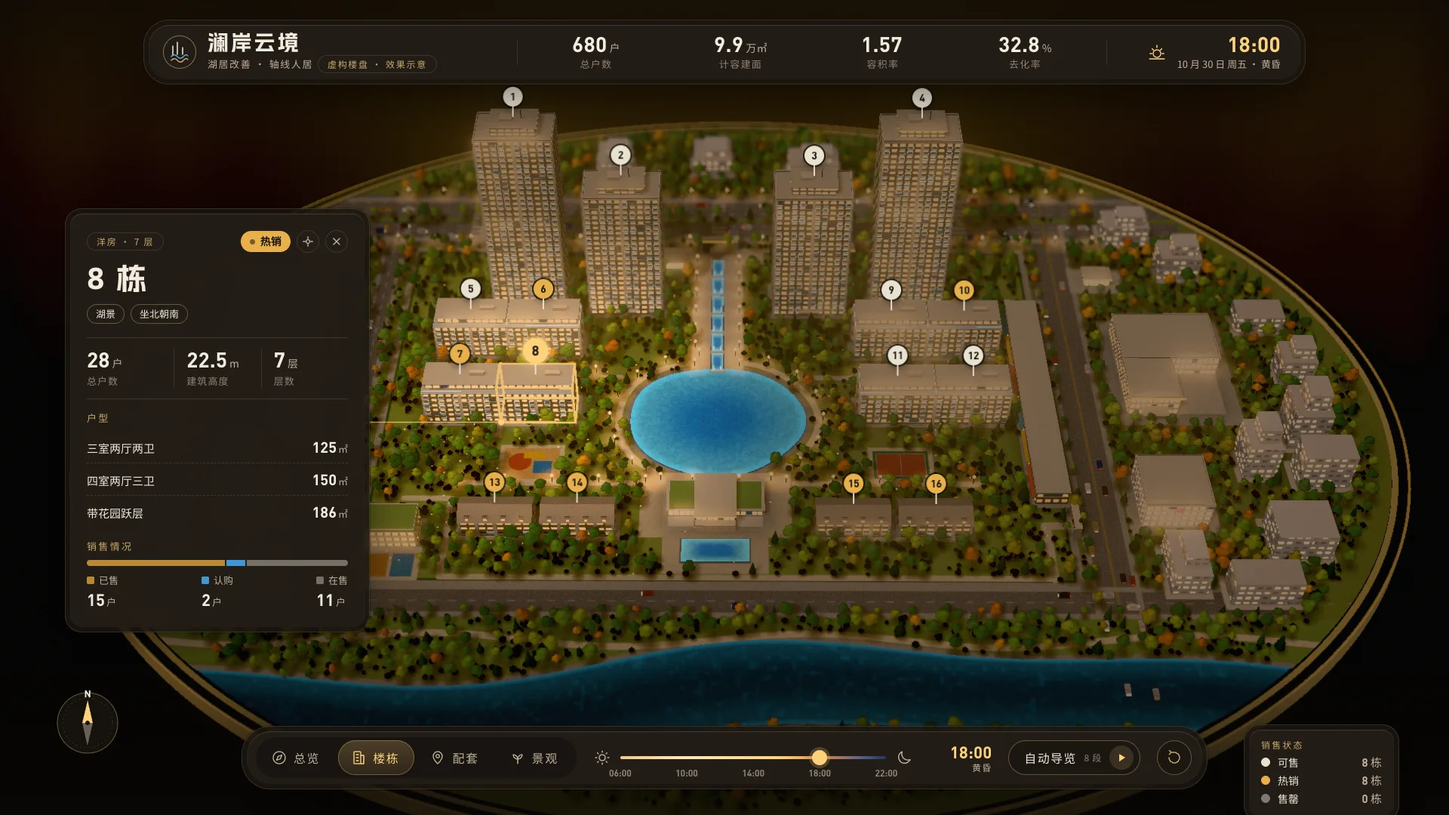
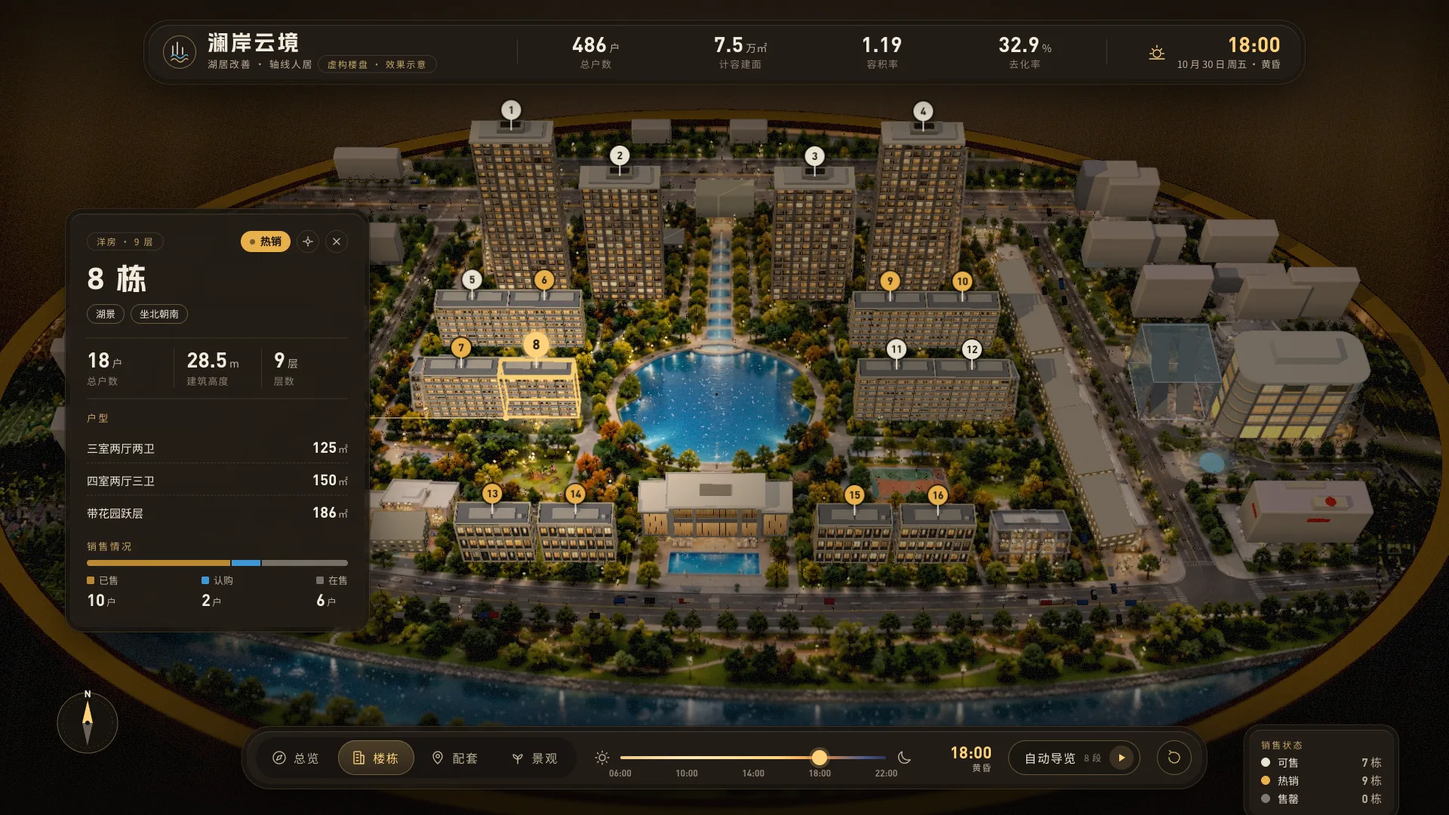
docs(estate): CLAUDE.md 和工作流状态更新，首页预览图重新生成
CLAUDE.md 补 /estate 的还原页、Blender 楼栋、样板间 VR、抖音视频与输入桥的说明；state.json 记录这几轮的取舍；.gitignore 忽略 .img2threejs/；首页的楼盘沙盘预览图按新画面重新生成。

diff --git a/CLAUDE.md b/CLAUDE.md
@@ -55,10 +55,14 @@ This project uses **yarn** (see `yarn.lock`).
   `python3 scripts/coal-prep/compose_camera.py` writes the main camera `src/views/coal-prep/data/camera.json` (generated; the Blender preview reads it too). It is composed after the approved image rather than taken from the raw calibration fit, because the AI concept image's perspective is inconsistent (user's decision 2026-10-28): azimuth from the calibration, 14° pitch, 8.5 m from drum 1, aim and FOV fitted to three composition points
 - `/mine-fire` data (fictional 青崖煤矿 2# 煤层, laid out from a real mine's CAD; design stage docs in git-ignored `docs/design/mine-fire/`): `python3 scripts/mine-fire/plan.py [CAD screenshot]` turns the roadway network hand-traced from the user's CAD 《2#煤层避灾路线图》 (1:5000, 5 m per CAD px assumed) into `src/views/mine-fire/data/plan.json` (generated, do not edit; with the screenshot path it also draws the tracing check `docs/design/mine-fire/plan-v1.png`, `MINE_FIRE_DOCS` overrides that directory). The four monitored chambers, the shafts and the airflow direction are not on the CAD and are assumptions placed after the approved concept. `data/camera.json` was fitted to the concept image (fixed south-looking camera, RMS 45.9 px, see `docs/design/mine-fire/07-camera.json`).
   Screenshots: `node scripts/mine-fire/capture.mjs "<dev>/#/mine-fire?at=14:06:18&tour=0" <png> --page --settle 3` (outside the sandbox; `--css` injects styles, e.g. `.mine-fire-page > .scene{visibility:hidden}` for the panel comparison)
-- `/estate` data and design (fictional 澜岸云境 residential estate shown as a sales-centre sand table; built with the `build-3d-visual-dashboard` skill, state in `.dashboard-workflow/state.json`, stage docs in `docs/design/estate/`, which is git-ignored on this base and exists only locally): `node scripts/estate/layout.mjs` is the only source of ids and layout (16 buildings B01–B16 = 4 towers + 8 terraces + 4 villas, 20 amenity / landscape / gate / surrounding objects, 680 units, the oval table base `base: {cx, cy, rx, ry}`) and writes `src/views/estate/data/layout.json` + `docs/design/estate/devices.json` (generated, do not edit); `node scripts/estate/mock.mjs` writes the sales mock `docs/design/estate/mock/` (check it with the skill's `data-check.mjs`, run from its real path `~/src/build-3d-visual-dashboard/scripts/`) and the page's `data/sales.json`; `node scripts/estate/scope_doc.mjs` regenerates `03-scope.md` from the layout.
-  The approved design `docs/design/estate/design/final.png` = an AI scene image (`design/src/scene-a1.png`, one Figma `generate_image` call) + HTML panels (`design/src/drafts.html`, tokens `tokens.css`); `node scripts/estate/design_moment.mjs && node scripts/estate/capture_drafts.mjs v1` re-render it (outside the sandbox). `python3 scripts/estate/fit_camera.py` fits the page camera to it (fixed 28° vertical FOV and a fixed 46° pitch — the free fit gives 53° from the building positions but the concept's base and perspective look nearer 35–40°; `calibrate.py`'s perspective model collapses to a near-orthographic 2° on this AI image) and writes `data/camera.json` (generated). The building positions in `layout.mjs` were back-projected from the design's roof anchors, so layout follows the design, not the first plan.
+- `/estate` data and design (fictional 澜岸云境 residential estate shown as a sales-centre sand table; built with the `build-3d-visual-dashboard` skill, state in `.dashboard-workflow/state.json`, stage docs in `docs/design/estate/`, which is git-ignored on this base and exists only locally): `node scripts/estate/layout.mjs` is the only source of ids and layout (16 buildings B01–B16 = 4 towers + 8 terraces + 4 villas, 20 amenity / landscape / gate / surrounding objects, 486 units, the oval table base `base: {cx, cy, rx, ry}`) and writes `src/views/estate/data/layout.json` + `docs/design/estate/devices.json` (generated, do not edit); `node scripts/estate/mock.mjs` writes the sales mock `docs/design/estate/mock/` (check it with the skill's `data-check.mjs`, run from its real path `~/src/build-3d-visual-dashboard/scripts/`) and the page's `data/sales.json`; `node scripts/estate/scope_doc.mjs` regenerates `03-scope.md` from the layout.
+  The approved design `docs/design/estate/design/final.png` = an AI scene image (`design/src/scene-a1.png`, one Figma `generate_image` call) + HTML panels (`design/src/drafts.html`, tokens `tokens.css`); `node scripts/estate/design_moment.mjs && node scripts/estate/capture_drafts.mjs v1` re-render it (outside the sandbox). `python3 scripts/estate/fit_camera.py` fits the page camera to it (fixed 28° vertical FOV; the roof-anchor fit gives 46° / 53° but the page camera is then re-solved by `COMPOSE` — due-north azimuth, 40° pitch, building 1's roof at screen y 192 and B14's south edge at y 765 — for a lower, closer frame whose base is cropped at the sides and the south edge; `calibrate.py`'s perspective model collapses to a near-orthographic 2° on this AI image) and writes `data/camera.json` (generated). The building positions in `layout.mjs` were back-projected from the design's roof anchors, so layout follows the design, not the first plan.
   Screenshots: `node ~/src/build-3d-visual-dashboard/scripts/capture.mjs "<dev>/#/estate?skip=1&tour=0" <png> --view home --state design --settle 4 [--clean] [--id-mask <png>]` (real path, not the `~/.claude/skills` symlink; outside the sandbox). The Browser pane throttles the page to ~1 fps while it is hidden, so use headless captures for anything frame-rate related
 - `/estate` 3D models (Blender from the command line, no MCP needed; `models/estate/` is git-ignored like the other models): `"/Applications/Blender.app/Contents/MacOS/Blender" --background --factory-startup --python scripts/blender/estate/run_cli.py -- build [--render <png>]` rebuilds `models/estate/estate.blend` from `layout.json` (28 buildings, each an empty named by its id with `<id>_body` + an invisible `<id>_hull` box the page uses for picking / outlines; plus the TREES collection with 4 crown meshes; `--render` is a Workbench preview from the page camera), `... -- bake [--samples 48] [--size 4096]` bakes vertex AO into the buildings (Cycles, upward faces forced to 1) and a top-down ground AO to `models/estate/ground_ao_raw.png` (≈4 min on the M2 GPU), `python3 scripts/estate/ground_ao_post.py [0.8]` turns that into `public/estate/ground_ao.webp` (the page multiplies it onto the ground canvas), and `... -- export` writes `public/estate/buildings.glb` + `trees.glb` (meshopt). Rebuild + bake + export + post after any change to `layout.json`, the facade code in `buildings.py` or the materials in `lib.py`. The Blender window you may have open does not show this: it is a separate headless process, open `estate.blend` to look at it.
+- `/estate` Cycles offline render (the "looks like a photographed physical sand table" route; the realtime page tops out near 5/10 on the review rubric): `node scripts/estate/export_for_blender.mjs [devUrl]` dumps the ground albedo (without baked shadows) and every named instanced mesh (trees, lamps, cars, context blocks) from the running page into `models/estate/render/` so Blender places things where the page does; `node scripts/estate/export_trees.mjs [devUrl]` builds 12 trees (oak / ash / aspen / pine / 3 bushes) with the `@dgreenheck/ez-tree` dev dependency (MIT; its package carries 15 MB of inlined textures so it is only used offline through `scripts/estate/tree_lab/index.html`, never in the page bundle) and writes `models/estate/render/trees_ez/*.glb` + `manifest.json`; `python3 scripts/estate/make_grass.py` scatters 120 k grass tufts and ~6 k flowers on the lawn pixels of the ground albedo (`grass_points.json`); then `"/Applications/Blender.app/Contents/MacOS/Blender" --background --factory-startup --python scripts/blender/estate/run_cli.py -- cycles <png> [--lit 0.85] [--samples 192] [--w 1920] [--h 1080] [--fstop 0.012] [--exp -0.4]` (`lib` + `buildings.py` models, `render.py` render materials / table / water / showroom / camera from `data/camera.json`, `ez_trees.py` tree placement; `--lit` 0 = day … 1 = night; 1080p at 64 samples ≈ 2 min on the M2) also saves `models/estate/render/estate_render.blend`. The camera is a 1:250 miniature's: the f-stop is tiny (0.012) because real-scale distances give no depth of field. Run the three export scripts outside the sandbox with the dev server up (`preview_start` name `bi-demo`). Blender 5's Glare node is configured through input sockets (`Type` defaults to Streaks, which draws crosses; set `Bloom`), and a mesh template without a `Col` attribute makes a Vertex Color node read black.
+- `/estate` residential buildings of the restoration page (B01–B16, Blender from the command line, since 2026-10-31): `python3 scripts/estate/img2/make_window_atlas.py` writes four window-pane atlases in `models/estate/` (git-ignored; 8 × 8 tiles each, the whole tile is emissive × `BL_WINDOW_EMIS`, so frame values are target brightness / 1.8): `window_atlas.png` for towers (dark frame + orange core with curtain folds, furniture blocks, optional mullion), `window_atlas_terrace.png` (warm-brown recess + pale balustrade band under the panes) and `window_atlas_dark.png` for villas (charcoal recess with two small panes / one wide lit pane / one pane / dark) and `window_atlas_club.png` for the clubhouse (tiles 0–31 golden full-height glass with fine curtain stripes, 32–63 the upper low band: three small lit panes over a brown base), then `"/Applications/Blender.app/Contents/MacOS/Blender" --background --factory-startup --python scripts/blender/estate/run_cli.py -- restored [--samples 32] [--render <png>]` builds the 16 residential buildings and the clubhouse CL01 from `scene/img2/footprints.json` (position / size / floors come only from there) with `scripts/blender/estate/restored.py` — real floor beams, piers, group-boundary pilaster + groove + pilaster, corner posts, one glass quad per window UV-mapped to an atlas tile (emission), one small balcony per unit on the terraces' south face, roofs (white overhanging cornice + crown + dark-notched core on towers; slate roof + white rim + pale PV platforms + equipment boxes on terraces / villas), vertex AO — and writes `public/estate/img2/buildings_bl.glb` (one empty per building id with a `<id>_body` mesh; the window material is `bl_window*` and the page drives its `emissiveIntensity` by time of day, `BL_WINDOW_EMIS` in `extras.js`; wall / roof materials get an albedo-coloured emissive of `BL_SURFACE_EMIS` that follows the sky light). the clubhouse (`club()` in `restored.py`: centre block with a lower tall glass storey, a thick beam, an upper low glass band and four thin grey columns, two one-storey wings, white overhanging roof slabs with a skylight; bay / column positions in metres were read off the design at 10× zoom) lives in the same GLB as `CL01`, and its roof material is named `bl_wall_clubroof` so it gets the full wall emissive (the design's clubhouse roof is the brightest white in the picture). `extras.js` loads it (`loadBlenderBuildings`), turns the generator's boxes of those buildings into invisible proxies (they still serve picking and the selection outline) and skips the shader facade / lattice / balcony / roof-unit / cornice code for them; when the GLB is missing the page falls back to that shader path. Per-kind parameters live in `KINDS` of `restored.py` (close to `FACADE` in `extras.js`, measured on the design at 9–16× zoom: villa bays are dark charcoal recesses with two small lit panes between light pilasters and beams, terrace bays are warm tan with orange panes over a pale balustrade band, tower walls are mid warm brown with thin pale pilasters and a wide dark groove; roofs get only a quarter of the wall emissive, the design's roofs are much darker than its walls). The GLB costs ≈ 156 draw calls (one per material primitive; the whole page is ≈ 290 calls, ≈ 2.98 M triangles, 60 fps steady after a ~2 s warm-up at 47). Compare at whole-page scale with `python3 scripts/estate/img2/bl_stats.py <render.png>` (per-building luminance percentiles 5 / 25 / 50 / 75 / 95 of design vs render — block means were fooled by dark-wall-bright-window vs light-wall-dark-frame, percentiles are not).
+- `/estate` photo mode (`?mode=photo`; it was the default look for a few hours on 2026-10-31 until the img2threejs restoration above replaced it): `"/Applications/Blender.app/Contents/MacOS/Blender" --background --factory-startup --python scripts/blender/estate/run_cli.py -- photo [--only a,b] [--samples 128] [--orbit-samples 96] [--force]` renders the whole set with the Cycles scene above (scene built once; existing PNGs are skipped so it can be interrupted and rerun): `home_<day|golden|dusk|night>` (main view × 4 lightings), 8 close-up views × 2 lightings (`towers` `terrace` `villas` from `tour.js`, `traffic` `scenic` `club` `shop` `edu` framed like `EstateScene.setLayer`) and `orbit_1…11` (every 30° around the main view's target, dusk; `orbit_0` is `home_dusk`) into `models/estate/render/photo/`, a building ID mask `mask_home.png` (flat colours, R = (index + 1) × 8, no antialiasing, compositor off) and `public/estate/photo/manifest.json` (cameras in three.js coordinates, lighting keyframe hours, view table, mask colour table); ≈3–4 min per 1080p frame on the M2, ~30 frames. Then `python3 scripts/estate/photo_post.py [86]` converts PNG → WebP into `public/estate/photo/` (about 15 MB in all). `scene/PhotoScene.js` has the same public interface as `EstateScene` (so `index.vue`, `tour.js`, `PinLayer` are unchanged): it draws the images on a 2D canvas, cross-fades lightings by hour, projects pins with each view's own camera, picks buildings from the mask in the main view (projected box hulls elsewhere), outlines the selection with a glow cut from the mask, flies between views with a cross-fade and a camera lerp, and rotates by dragging horizontally through the 12 orbit frames. `index.vue` falls back to the restored scene when `manifest.json` is missing; `?mode=live` gives the first procedural `EstateScene`. Changing the layout, camera, trees or lighting means re-rendering the affected frames.
+- `/estate` img2threejs restoration (the **default** page look since 2026-10-31; skill `~/.claude/skills/img2threejs`, working state in the git-ignored `.img2threejs/`): the user asked to restore the approved design `docs/design/estate/design/v1.png` (identical to `final.png`; its scene without panels is `design/src/scene-a1.png`, 1536 × 864). Pipeline in `scripts/estate/img2/`: `fit_ref_camera.py` fits a camera in `scene-a1.png` coordinates (free pitch, RMS 9.8 px → `.img2threejs/camera-ref.json` + `scene/img2/camera-ref.json`; it is NOT the page's `camera.json`, which is re-composed lower and closer); `refcam.py` converts review-image pixels ↔ world; `overlay_boxes.py <out.png> [prefixes] [x0 y0 x1 y1] [--image <base>]` draws every footprint volume as a wireframe through the review camera on the design (or on a render) to check position / size / height by eye, `grid_compare.py` / `grid_crop.py` put design | render (or the design alone) side by side with a labelled 10 px grid so edges can be read off in `scene-a1.png` coordinates, `ctx_stats.py <render.png>` compares median top / front colours of the surrounding white blocks and the hospital with the design; `measure_river.py` measures the river's two banks from the image's blue water (→ `scene/img2/river.json`); `build_spec.py` is the only source of the ObjectSculptSpec (102 components named by building id, 16 materials with reference PBR, 68 local features, 7 repetition systems; run `python3 .../new_sculpt_spec.py` first for the skeleton it starts from) and also writes `scene/img2/{spec-lite,footprints}.json`; `extract_materials.py` extracts each material's reference PBR from image crops (needs the skill copy outside the sandbox: its spec-search cache writes under the skill dir); `make_ground.py` back-projects the image onto the ground plane (building volumes masked and filled with borrowed high-frequency detail) and samples trees / lamps from it → `public/estate/img2/{ground.webp,trees.json,lamps.json,ground_info.json}`; `cycle.sh <pass> <name> --q mat=lit` runs spec → strict validation → factory → headless screenshot → side-by-side + 50 % overlay, `review_pass.sh` adds the machine gates (tier-1 diagnose, multi-angle, interior difference) — screenshots need Chrome outside the sandbox. `scene/img2/createEstateModel.ts` is GENERATED (≈ 840 KB, eslint-ignored) — never edit it, change `build_spec.py` and regenerate with `--pass-id form-refinement --force`; the generator ignores `transform.scale` once present and emits `repetitionSystems` with `count > 0` as a ring of boxes at the host, so the surrounding white blocks (`CTX_VOLS` in `build_spec.py`, 26 boxes: stepped composites split into several boxes, each read off the design as front-face left / right x, roof back y, roof front y, front-bottom y and turned into metres by `vol()` — width from the pixel width, height from the front-face pixel height / cos(pitch), depth from the roof's pixel depth / sin(pitch), min 8 m; the old version used one big bbox per cluster and inflated height and depth) and the hospital (`HP_VOL`) get rounded-box geometry and a dedicated material in `styleContext()` of `extras.js` (pinkish-white top glow, 2.4× on the brighter blocks, east-face glow, foot darkening), and the hospital also gets a rooftop box and red logos; the big instance systems live in `scene/img2/extras.js` (balconies, cornices / parapets, roof platforms, mall mullions, trees, lamps, cars, the ground plane); building facades are NOT instances any more (and since 2026-10-31 the residential buildings B01–B16 are Blender models loaded from `public/estate/img2/buildings_bl.glb`, see the command above; the shader facade described next is kept as the fallback and still draws the amenity buildings): `scene/img2/facade.js` (since 2026-10-31 each window pane is a dark frame around a bright core — `core` = the core's share of the pane, `frameDark` = frame brightness, `warmK` = extra orange, `split` = a mullion down the middle with the two halves lit differently, `sill` = a dark strip along the pane bottom (balcony balustrade shadow), `tex` = small-cell curtain / furniture variation, `fold` = curtain fold frequency (the clubhouse uses 95: one wide pane of fine vertical stripes); the design's panes are a dark recess with an orange-yellow core taking 5–6 tenths of the pane, not a uniformly lit rectangle) is a `MeshStandardMaterial` + `onBeforeCompile` shader that paints, per building, integer bays × floors of recessed windows (inner-wall shadow on the lintel / left edge, sill line), warm curtains (three tints, bright at the top, vertical folds, hash-chosen lit / dark), grouped windows separated by a dark groove flanked by light pilasters, a darkened building foot and a top-bright wall gradient; the wall has no emissive (only windows glow) and a shared `facadeGain` uniform follows the time of day; roof faces get their own `roof` colour. The windows are really recessed too (2026-10-31): `scene/img2/lattice.js` builds one `InstancedMesh` (`rep_lattice`, ≈ 2 000 boxes, one draw call, +28 k triangles) of everything between the windows from the same integer bay / floor grid as the shader — floor beams (depth `FACADE.depth × beam`, half of the pier depth), piers (`depth`), at every group boundary pilaster + groove + pilaster (pilasters `PIL_OUT` 0.35 m proud, groove only 0.12 m) and full-height corner posts; the body box surface is the window bottom (the shader still paints curtains / glow there, with its fake lintel shadow reduced by `real: 1`). Its colours are instance colours (wall × `latGain`, pilaster × 1.3, groove × 0.35) and its foot-darkening / top-bright gradient reads a per-instance `aB` = (building base height, building height, foot range) so it matches the shader wall exactly; the window grid must stay identical in both files (same `bay` / `row` / `win` / window centre 0.46 / along direction per face). Keep depths small: from the fitted camera (≈ 54° pitch) a lintel of depth p hides about 1.4 p of the window on the wall plane, and tall beams turn terrace windows into slits. Close-up review: `estate-lab.html?mat=lit&look=0&focus=<east>,<north>,<dist>,<angle from vertical>` — keep the camera more than ~20 m from roofs (the lab's near plane clips closer geometry and you then see the ground through the windows, which is not a bug). Per-kind parameters (`FACADE` in `extras.js`: tower 4.25 m bays × 4.6 m rows two-window groups, terrace 4.3 × 6.0 (big windows, one row per two floors, as in the design: a design row is ~2.6 model floors tall; one small balcony slab per unit and window row, not a through slab), villa 3.75 × 3.5 one window pair per unit, school one horizontal band, club 8.5 m bays with grey columns, one continuous golden glass pane per bay and floor (the separate white colonnade in front of it was removed: the design's columns are flush with the glass), shop, small) were tuned against the design with `python3 scripts/estate/img2/facade_stats.py <render.png>` (mean / window light / bright-pixel share / texture std / warmth on un-occluded facade blocks of `scene-a1.png`; towers match within ±5, row pitch and bay count were measured, not guessed). Gotchas: GLSL `half` is a reserved word in ES 3.00; a roof slab thinner than 1.5 m used to be skipped by the footprint registry (the parapet and roof platforms then had nothing to anchor on and sat buried) — `role == "roof"` is exempt now; the clubhouse is a three-part building (`CL01` centre + `CL01_wl` / `CL01_wr` wings + white `mat_roof_bright` slabs + a skylight), the school a 3-storey L of two 16 m wide wings (layout row updated to 3 floors / 13 m) and the spec keeps `count: 0` + `plannedCount`; children inherit a parent's rotation (a rotated extrude's child lies on its side), so rotated parts hang off the root. Trees are real `@dgreenheck/ez-tree` models (MIT; the package carries 15 MB of inlined textures, so it only runs offline in `scripts/estate/tree_lab/`): `lab.js` `LITE` lists 10 low-poly variants (oak ×3 / ash ×2 / aspen / pine ×2 / bush ×2, 1000–2300 triangles each, made by cutting branch levels, radial segments and leaf count and enlarging the leaf cards), `node scripts/estate/img2/tree_lab_eval.mjs "treeLab.exportLite()" --out .img2threejs/trees/export_lite.json` (outside the sandbox, dev server up; the same tool evaluates any expression in the tree lab, e.g. `treeLab.probeAll()` for triangle counts) then `python3 scripts/estate/img2/pack_trees.py` writes `public/estate/img2/trees_ez.json` (≈ 1 MB, base64 geometry) + `trees/*.png` (128 px leaf cards with alpha, 64 px bark); `extras.js` instances one `InstancedMesh` pair (bark + leaves) per variant at the positions / radii / colours sampled from the design image (leaf texture is used only as a luminance modulation, the instance colour gives the hue, so the dark-green / yellow-green / orange-red mix of the design is kept; darker big ones become pines, small ones bushes). Page at 1080p: ≈ 2.9 M triangles, still 60 fps in headless Chrome. `scene/img2/look.js` = lights, contact shadows, water sparkle, bloom + `scene/lens.js` (shared depth-of-field / vignette pass, also used by the live scene); `scene/RestoredScene.js` has the same public interface as `EstateScene` / `PhotoScene` and a stage whose projection centre sits at y = 582 (the image sits inside the panels' 96 px margin, scaled 1.125). Time of day is interpolated from four lighting keys (the ground texture is the 18:00 baked light, so it can only be brightened or dimmed as a whole). Page modes: default restored, `?mode=photo` the Cycles photo set, `?mode=live` the first procedural scene. Dev-only review page `estate-lab.html?mat=flat|lit&az=<deg>&cam=top` (not in the production build; `capture_lab.mjs ... --page "skip=1&tour=0"` screenshots the real page and prints its fps). Review record (honest): blockout and structural-pass `continue` (0.72 each); form-refinement went refine-code ×2 → request-input (east-commercial 0.58 → 0.62 < the 0.65 gate) and, after the user chose to keep refining (real ez-tree trees, mall rebuilt as warm core + 5 glass rings + 5 cantilevered white slab rings + mullions, cornices / parapets / base darkening), `continue` at 0.76 with east-commercial 0.66, vegetation 0.80, tower-facade 0.72; interior difference vs the design scene 0.134 → 0.069; tier-1 silhouette IoU 0.868 only after the review page used the same showroom background as the page and the vignette was calibrated to the design's corner brightness (that metric is really the foreground fraction — do not relax its threshold). material-pass / surface-pass / lighting-pass / interaction / optimization are NOT gated: the skill wants generator PBR-map materials plus grazing close-ups, while the page uses hand-written materials (flat colours, instanced details, luminance-only leaf cards), so the material layer only scores 0.55 (< 0.7) and recording `continue` would be false; their content exists in `look.js` / `RestoredScene.js` (measured: 1080p ≈ 2.9 M triangles, 160 draw calls, 60 fps in headless Chrome; day / night mean luminance 138 / 123 / 111 / 97 at 10 / 16 / 18 / 22 h). Layout data follows the design (the user chose "按设计稿改", 2026-10-31): `scripts/estate/layout.mjs` now has B01 / B04 at 30 floors (96 m; 90 units each after the depth cut; the rooftop allowance is the `+6` in `floors × 3 + 6`), and the terraces were raised on 2026-10-31 (measured on the design: the back row B05 / B06 / B09 / B10 matches 7 floors, the front row B07 / B08 / B11 / B12 is about 30 % taller — back row now 8 floors, front row 9, so 25.5 m / 28.5 m), and the villas B13–B16 were raised the same way (3 → 9 floors, 18 units each, moved south from y −72 to −83 so that both the roof and the facade rows land on the design's pixels), and on 2026-11-01 the residential depths were cut to match the design's shallow roofs and thin east faces (the ≈ 54° review camera shows a roof about twice as deep as the design's ≈ 35–40° perspective does): towers 20 → 12 m, terraces 15 → 10 m, villas 13 → 10 m, south faces unchanged (`cy` shifted by half the depth difference), units per floor 4 → 3 (towers) / 4 → 2 (terraces) so the floor areas still fit the unit-type table, villas 8 units each, and the clubhouse CL01 was cut from 25 to 14 m deep the same way (centre block 62 % of the width; the roof slabs overhang 1.5 m front and back, so the visible roof is 17 m ≈ the design's 35 px; south face fixed, height × 1.08 to the design's 37 px facade; `layout.mjs` row now (0, −70, 62 × 14, 24 m)), so the estate totals are 486 units / FAR 1.19 / density 14.3 % / 630 parking; amenities CL01 / E01 / SC01 / ML01 / HP01 / SH01 take position, size, floors and an explicit height (`heightM`, the optional 11th field of an amenity row: commercial / school / hospital storeys are taller than the 3 m residential one) from the restored model, e.g. the mall is 54 × 27 m, 5 floors, 40.8 m at (252, −10.5) outside the base ellipse (re-read from the design on 2026-10-31: front-top edge y 366 and front-bottom y 432 in `scene-a1.png` give a 41.5 m roof, the roof corners projected to that height give the plan; the old 62 × 45 × 34 m came from one inflated bbox) — its facade is a dark-warm core + 5 rounded-rectangle blue-grey glass rings (`mat_mall_glass`, floor heights 28 / 18 / 18 / 18 / 18 % of the height, ground floor is the tall glazing) + thin grey slab rings + a roof cap and a stepped roof box (`build_spec.py`, `rounded_all`), and `extras.js` adds on the flat south / east / west faces grey piers every ≈ 9.5 m plus one warm lit panel per bay and floor (instanced, `rep_mall_panels`, driven by the shared `facadeGain`, vertical frame stripes every 2.4 m — finer stripes alias into a dot grid at 1080p); the tour text and the scope doc now read floor counts from the layout instead of hard-coding them. Not re-run on purpose: `fit_camera.py` / `fit_ref_camera.py` read layout heights (re-running shifts the cameras slightly), so `camera.json` and the Cycles photo set (`?mode=photo`, rendered with B01 / B04 at 102 m) keep the old tower height.
 - `node scripts/capture-home-previews.mjs [devServerUrl] [key…]` — regenerates the homepage preview images `public/home/<key>.webp` with headless Chrome (dev server must be running; default URL `https://localhost:8892`; Node 22+; `CHROME_PATH` overrides the Chrome location). It waits for the scene to finish loading, then captures mid-way through the first tour stop (per-demo `SETTLE` seconds in the script)
 
 There is **no test framework** configured. For the `/city` landmark models the regression tool is a Node script (read-only, builds the landmark modules outside the browser):
@@ -132,8 +136,8 @@ The screen scales via rem, not media queries. **Author all sizes in `px`** — t
     `scene/MineFireScene.js` (no Vue): seam slab from the field boundary, glass corridors per roadway group (`network.js`), chambers / shafts / capsule refuge chambers shown enlarged (`props.js`), fire FX (`fx.js`), chevron escape routes, people points, airflow particles. Panels in `components/` are a port of the design HTML (`styles/board.scss` = the design CSS under `.mine-fire-page`); the page root restores the design's font smoothing and label weight, and drops the panels' `backdrop-filter` (it halved the frame rate over the WebGL canvas). Dev builds expose `window.__mineFireScene`, `window.__mineFirePage` and the skill's `window.__dashboard` hooks.
   - `/estate` is the 楼盘沙盘 demo (fictional 澜岸云境, a 湖居改善 estate in 成都 — the user dropped real projects after the planning-bureau notices were bot-blocked and real sales-centre sand tables were out of reach): a sales-centre sand table look (ivory building models with window grids, instanced model trees, blue acrylic water, an oval dark base with a gold rim, warm showroom light, tilt-shift depth of field) for a 1920 × 1080 wall screen. Approved look: `docs/design/estate/design/final.png` (A 展厅暖光 · 象牙白实体沙盘; the user chose "pure sand table + bottom bar", no side columns). Design moment 2026-10-30 18:00 with 8 栋 selected.
     `index.vue` is only the shell: the canvas fills the window and the panels live on a centred 1920 × 1080 stage scaled with `transform` (styles in `styles/estate.no-convert.css`, no `backdrop-filter` over the canvas); `scene/EstateScene.js` offsets the projection by the stage origin like `/smart-conveyor`. `scene/` is plain three.js: `ground.js` paints one 4096 canvas (lawns, roads, paths, plazas, pads, contact shadows) that doubles as the tree mask, `water.js` (acrylic shader, discards outside the oval), `models.js` (loads `buildings.glb` / `trees.glb` / `ground_ao.webp` from `public/estate/`; each one that fails to load falls back to the procedural version), `buildings.js` (with the GLB: nodes named by id, the window glass in five lit tiers `glass_a…d` that `setLit` ramps by night depth, `<id>_hull` as the pick / outline proxy; without it, per-facade window textures + a night emissive map; context blocks always draw a window grid from world position in a shader), `props.js` (instanced trees / lamps / moving cars), `sun.js` (real sun position for 成都 on the chosen date, the only place light and window-lit curves come from), `tour.js` (8 stops), `theme.js`. A fixed showroom key light keeps the table lit at dusk; the sun only adds shadows and colour temperature.
-    Render pipeline (`EstateScene.js`, tuned for 60 fps in headless Chrome on an M2 at 1080p): RenderPass → UnrealBloom at half resolution → one `Lens` pass (depth DOF read from the composer target's own depth texture, top-only tilt-shift, vignette, split toning, grain, cheap edge smoothing) → OutputPass (Neutral tone mapping once). The composer targets have `samples: 0` (MSAA on the ping-pong buffers cost ~14 fps); the shadow maps are rendered only when the light changes (`shadowMap.autoUpdate = false`); contact shadows under trees are painted into the ground canvas instead of using realtime GTAO; the `RoomEnvironment` env map is attached only to the window glass and the gold rim (a scene-wide env map costs ~8 fps). The showroom backdrop is `public/estate/showroom.webp` (blurred from the concept image, centre darkened). `?q=low|mid|high` picks a quality tier (default mid; `high` turns on realtime GTAO and drops to 20–40 fps on slow GPUs), `?fx=noenv,noks,nogtao,nolens` switches single effects off for profiling. Watch out: GLSL `smoothstep` with edge0 > edge1 is undefined and gives NaN on Metal (the whole bloom goes black), and any mesh without normals breaks GTAO's normal pass. Independent review stands at 4.9 / 10 after two pushes for 8 (second phase: render pipeline; third phase: the Blender models above; see `docs/design/estate/11-review-report.md`): a light-effects round (lower bloom threshold, lamp light pools on the ground, two-layer tree crowns, water glints) did not move the score and its bloom / glint were partly rolled back; what is still missing is the photographic look — warm window light spilling onto walls and ground, lamp light pools, denser layered tree crowns, water reflections.
-    Interactions: click a building or its pin → info card (floors, units, unit types, sold / reserved / open bar); bottom tabs 总览 / 楼栋 / 配套 / 景观 (the last two show a layer chip row and name tags); time slider 06:00–22:00; 自动导览 (also starts after 45 s idle). Sales data is mock (`data/sales.json`; district totals are derived from the building rows, rate = sold ÷ units). Deep links: `?at=2026-10-30T18:00` pins the scene time, `?tour=0`, `?select=B08`, `?tab=building|amenity|scenic`, `?skip=1` (no intro). Dev builds expose `window.__estateScene` and the skill's `window.__dashboard` hooks (`setState("design")` = the design moment).
+    Render pipeline (`EstateScene.js`, tuned for 60 fps in headless Chrome on an M2 at 1080p): RenderPass → UnrealBloom at half resolution → one `Lens` pass (depth DOF with a ±20 % clear band around the focus distance, read from the composer target's own depth texture, tilt-shift blur on the top and bottom edges, vignette, split toning, grain, cheap edge smoothing) → OutputPass (Neutral tone mapping once). Lights are scaled by `THEME.dim` (0.7; the hemisphere light by `dim + 0.3`, ambient not at all) so the self-lit window glass, lamp pools and water read brighter than the dimmed walls; trees cast no shadow (their contact shadow is painted into the ground; shadow-map tree shadows turn into black blobs on the dim lawn); GLB walls / slabs are multiplied by 0.84 and roofs by 1.4 at load. The composer targets have `samples: 0` (MSAA on the ping-pong buffers cost ~14 fps); the shadow maps are rendered only when the light changes (`shadowMap.autoUpdate = false`); contact shadows under trees are painted into the ground canvas instead of using realtime GTAO; the `RoomEnvironment` env map is attached only to the window glass and the gold rim (a scene-wide env map costs ~8 fps). The showroom backdrop is `public/estate/showroom.webp` (blurred from the concept image, centre darkened). `?q=low|mid|high` picks a quality tier (default mid; `high` turns on realtime GTAO and drops to 20–40 fps on slow GPUs), `?fx=noenv,noks,nogtao,nolens` switches single effects off for profiling. Watch out: GLSL `smoothstep` with edge0 > edge1 is undefined and gives NaN on Metal (the whole bloom goes black), and any mesh without normals breaks GTAO's normal pass. Independent review stands at 4.9 / 10 after two pushes for 8 (second phase: render pipeline; third phase: the Blender models above; see `docs/design/estate/11-review-report.md`): a light-effects round (lower bloom threshold, lamp light pools on the ground, two-layer tree crowns, water glints) did not move the score and its bloom / glint were partly rolled back; what is still missing is the photographic look — warm window light spilling onto walls and ground, lamp light pools, denser layered tree crowns, water reflections.
+    Model-room VR tour (2026-11-01): the info card of a building has a 进入样板间 · 实景 VR 看房 button (and a second click on the already-selected building does the same) that opens `components/RoomTour.vue`, a full-window overlay outside the stage with a sandboxed iframe of the official VR share page configured in `data/room.js` (`ROOM_TOUR.url`; `?roomUrl=<https link>` swaps it for a session, `?select=B08&room=1` opens it directly). It deliberately embeds the page instead of copying its panoramas: the platform serves them as script-created `blob:` data, and the user's own link (a Beike / Realsee resale listing, 4 rooms 171 ㎡, unrelated to the estate's unit-type table — the user said to ignore the mismatch) is third-party content; nothing from it is stored in the repo. While the overlay is open the scene is frozen (`setFrozen`), the tour and the 45 s idle timer are held, Esc / the close button / a click outside return. Note the link is in the repo, so a push to master shows the embed on the public Pages page too. Interactions: click a building or its pin → info card (floors, units, unit types, sold / reserved / open bar); bottom tabs 总览 / 楼栋 / 配套 / 景观 (the last two show a layer chip row and name tags); time slider 06:00–22:00; 自动导览 (also starts after 45 s idle). Sales data is mock (`data/sales.json`; district totals are derived from the building rows, rate = sold ÷ units). Deep links: `?at=2026-10-30T18:00` pins the scene time, `?tour=0`, `?select=B08`, `?tab=building|amenity|scenic`, `?skip=1` (no intro). Dev builds expose `window.__estateScene`, `window.__estateTour` (the tour player, so a recording can shorten `tour.stops[i].dwell`) and the skill's `window.__dashboard` hooks (`setState("design")` = the design moment). Promo video (2026-11-01, `douyin-demo-video` skill, files in the git-ignored `docs/design/estate/douyin/`): 53 s, opening = the time slider dragged from 13:00 to 21:30 while the windows light up; the model-room shot records the embedded third-party VR iframe, which the virtual clock does not control — `rec.mjs` got an input bridge for it (`REC.input` / `mouse` / `dragTo` / `clickReal` queue CDP `Input.*` events that are dispatched just before each screenshot, the only way to reach a cross-origin iframe). The raw cut is ≈ 400 MB because the page's film grain defeats the encoder; re-encode with `-crf 26` (≈ 64 MB).
   - `/building` is the 数字楼宇 demo, planned as five drill-down levels 城市 → 园区 → 楼宇 → 楼层 → 房间; the city (成都高新区南区 only — the west zone is ~20 km away and was dropped on request), park (成都金融城双子塔), building (南塔 / 北塔), floor (standard office floor) and room (each floor's 大会议室) levels all exist; design drafts are in `docs/design/building/`.
     `index.vue` only switches levels (`?level=city|park|building|floor|room`, plus `&b=tower_S|tower_N` for building / floor / room and `&f=32F` for floor / room; each level is `components/levels/<Level>.vue`).
     Its 3D map ports the 射阳应急 biscreen homepage map (mini3d framework from ThreeMaps + `World.js`) into `scene/map/` (`CityWorld.js`, gsap timeline); the transparent canvas sits on `assets/map-base.png`.
